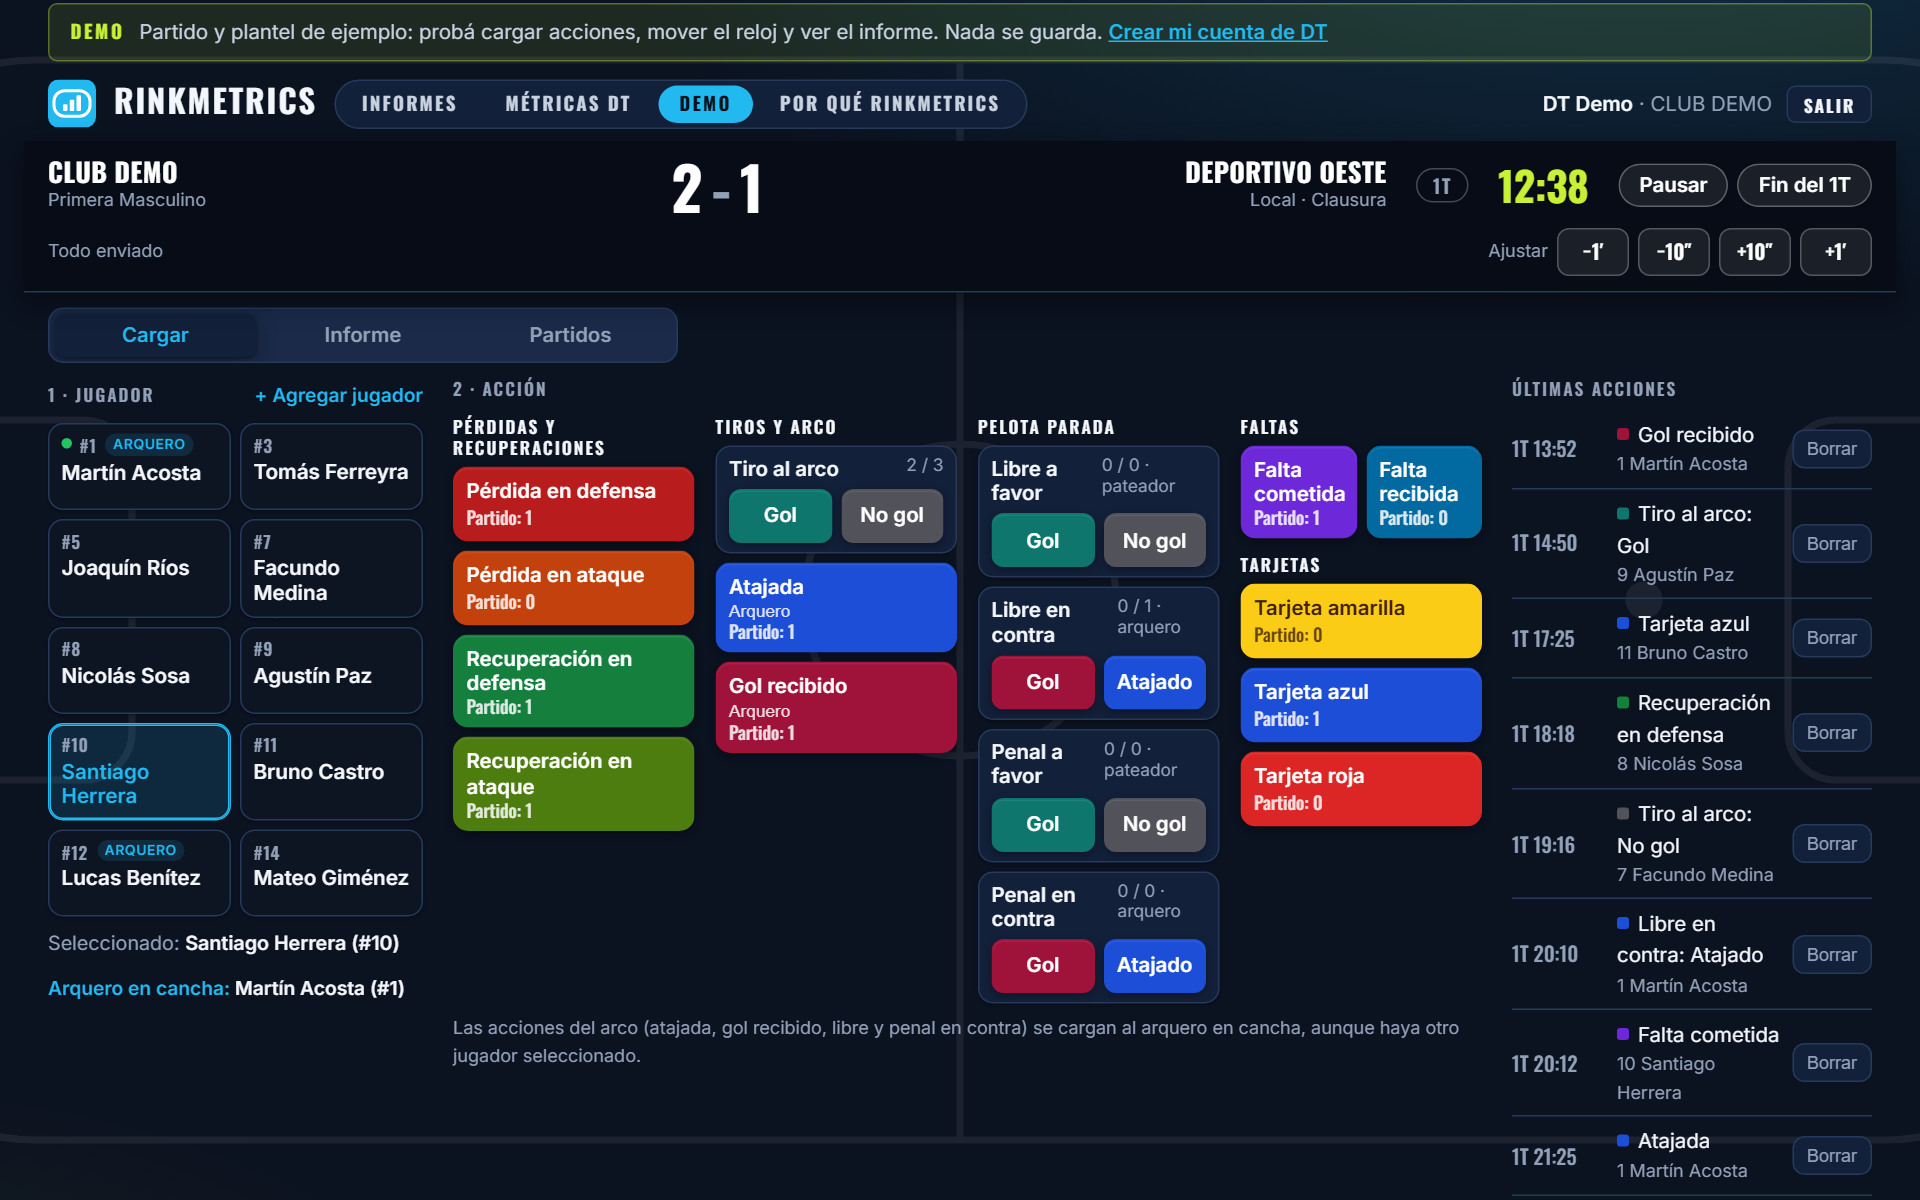
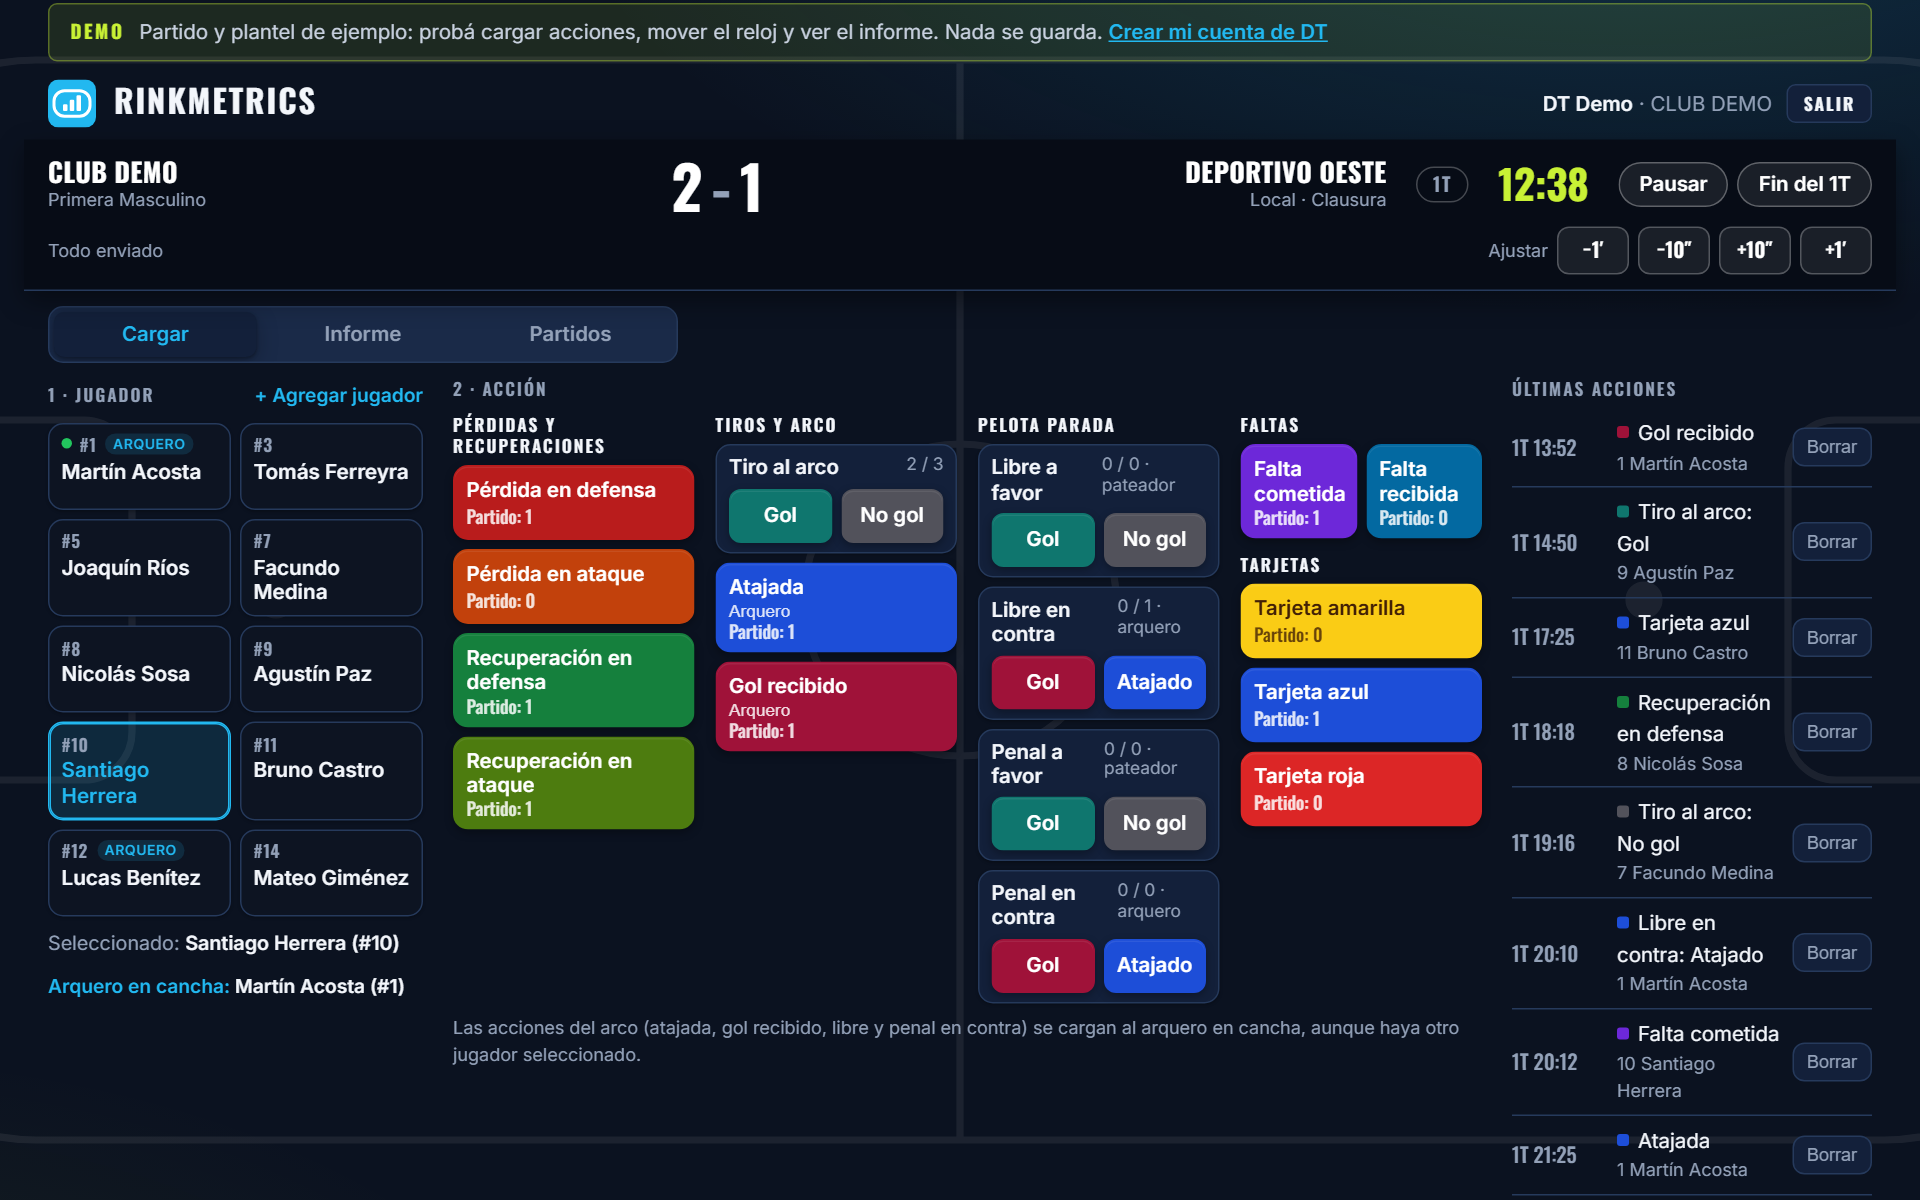
Métricas DT: un solo menú arriba (el del DT, en la barra superior)
En dt.html y la demo, el menú del DT reemplaza al menú del sitio, que
quedaba duplicado y con dos "Informes". El logo sigue llevando a la portada.

diff --git a/src/main/resources/static/js/app.js b/src/main/resources/static/js/app.js
@@ -119,7 +119,8 @@ function showReady(job) {
 /**
  * Menú superior, al lado de la marca en todas las páginas: las dos secciones (Informes y Métricas DT), la demo y
  * "Por qué RinkMetrics" (su página). La página marca la suya con data-seccion en el body.
- * Se agrega cuando la página ya puso la marca.
+ * Se agrega cuando la página ya puso la marca. Las pantallas de Métricas DT (body.dt-page) no lo llevan: tienen su
+ * propio menú en esa barra.
  */
 document.addEventListener("DOMContentLoaded", () => {
     const marca = document.querySelector("header.brand");
@@ -133,6 +134,7 @@ document.addEventListener("DOMContentLoaded", () => {
         link.append(...marca.childNodes);
         marca.append(link);
     }
+    if (document.body.classList.contains("dt-page")) return;
     const nav = document.createElement("nav");
     nav.className = "secciones";
     nav.setAttribute("aria-label", "Secciones");

diff --git a/src/main/resources/static/css/app.css b/src/main/resources/static/css/app.css
@@ -643,3 +643,8 @@ body.dt-vivo .dt-menu { display: none; }
     .inf-eventos .j { font-size: .85rem; color: var(--ink-2); }
 }
 @media (min-width: 1100px) { .inf-kpis { grid-template-columns: repeat(7, minmax(0, 1fr)); } }
+
+/* En Métricas DT el menú del DT va en la barra superior, en lugar del menú del sitio. */
+.topbar .dt-menu { margin: 0 auto 0 0; }
+@media (max-width: 760px) { .topbar .dt-menu { order: 3; width: 100%; max-width: none; justify-content: space-between; } }
+@media (max-width: 480px) { .topbar .dt-menu a { flex: 1 1 auto; text-align: center; padding: 8px 6px; font-size: .72rem; letter-spacing: .06em; } }

diff --git a/src/main/resources/static/js/dt.js b/src/main/resources/static/js/dt.js
@@ -792,6 +792,8 @@
     // ---------- Inicio ----------
 
     $("brand").outerHTML = BRAND;
+    // Un solo menú arriba: el del DT va en la barra superior, al lado de la marca.
+    document.querySelector(".topbar header.brand").after($("dt-menu"));
     document.querySelectorAll("#i-tipo button").forEach(b => b.addEventListener("click", () => {
         infTipo = b.dataset.tipo;
         infValor = null;

diff --git a/README.md b/README.md
@@ -217,7 +217,8 @@ perfil decide de dónde salen los clubes, las categorías, los jugadores y los i
 
 - **Dos secciones:** la portada (`/`) presenta **Informes** (`/informes.html`: perfiles Club y Jugador, informes de
   ejemplo) y **DT** (`/dt-inicio.html`: Métricas DT, las estadísticas en vivo, y su plan). El menú "Informes / DT" está arriba en todas
-  las páginas. El ingreso es uno solo y lleva a cada usuario a la pantalla de su perfil.
+  las páginas, salvo en la pantalla de Métricas DT (y su demo): ahí la barra superior lleva solo el menú del DT
+  (Dashboard · Partidos · Jugadores · Informes) y el logo vuelve a la portada. El ingreso es uno solo y lleva a cada usuario a la pantalla de su perfil.
 - **Por qué RinkMetrics** (`/por-que.html`, en el menú): las ventajas de la plataforma, en su propia página.
 - **Demo de Métricas DT** (`/dt-demo.html`, en el menú "Demo"): la pantalla de carga con un partido y un plantel de
   ejemplo, sin cuenta. `js/dt-demo.js` contesta en el navegador las llamadas a la API (nada se guarda). La página de
